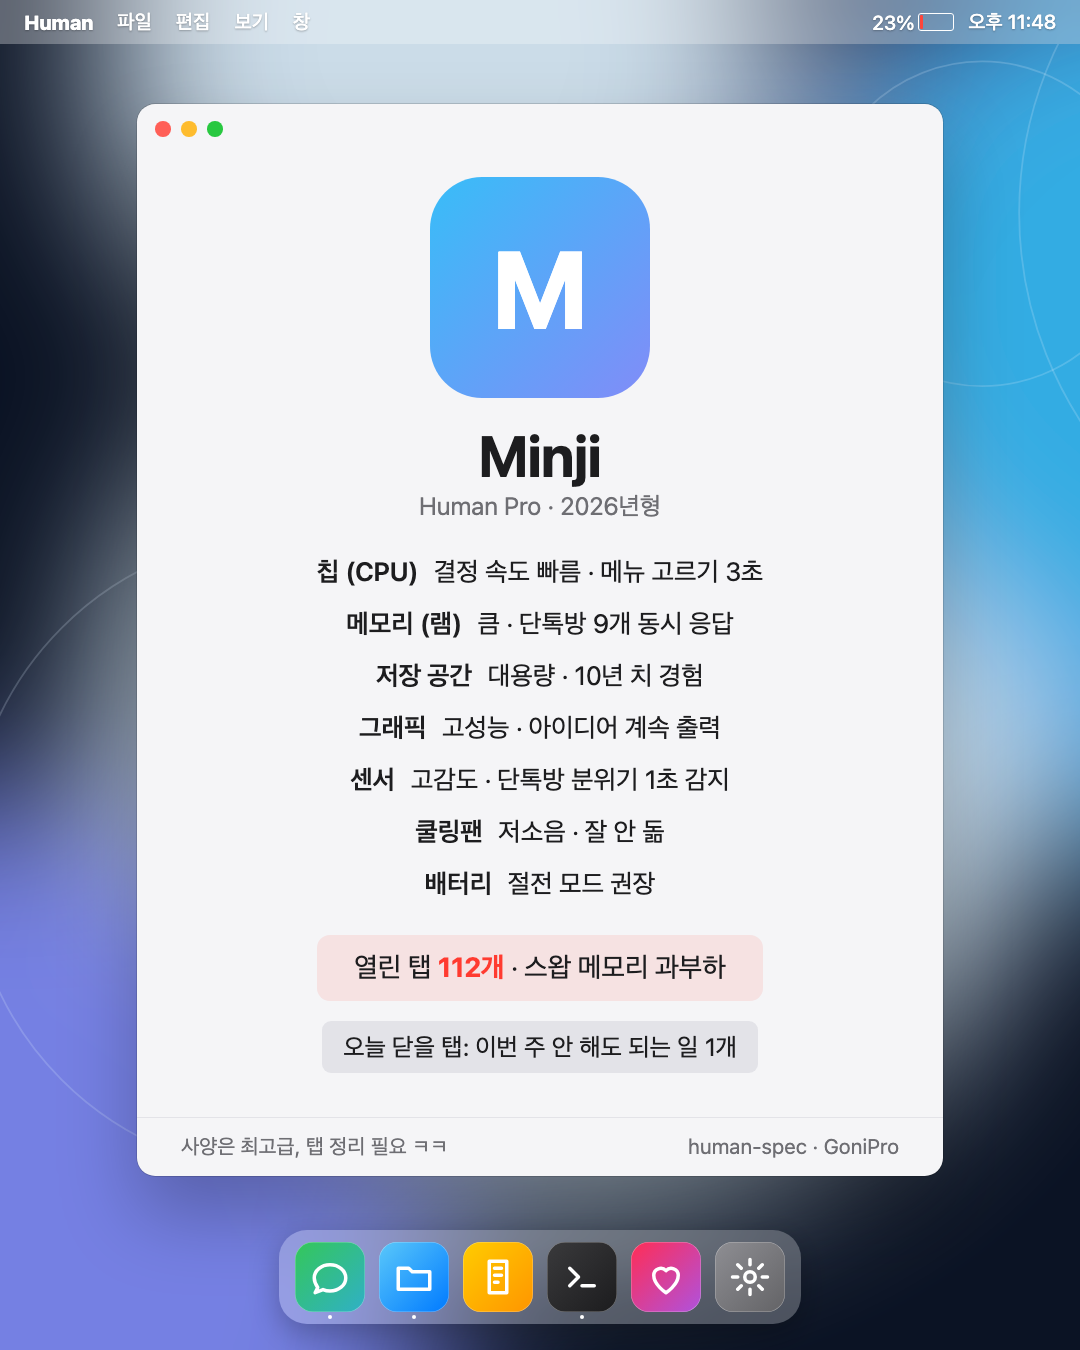
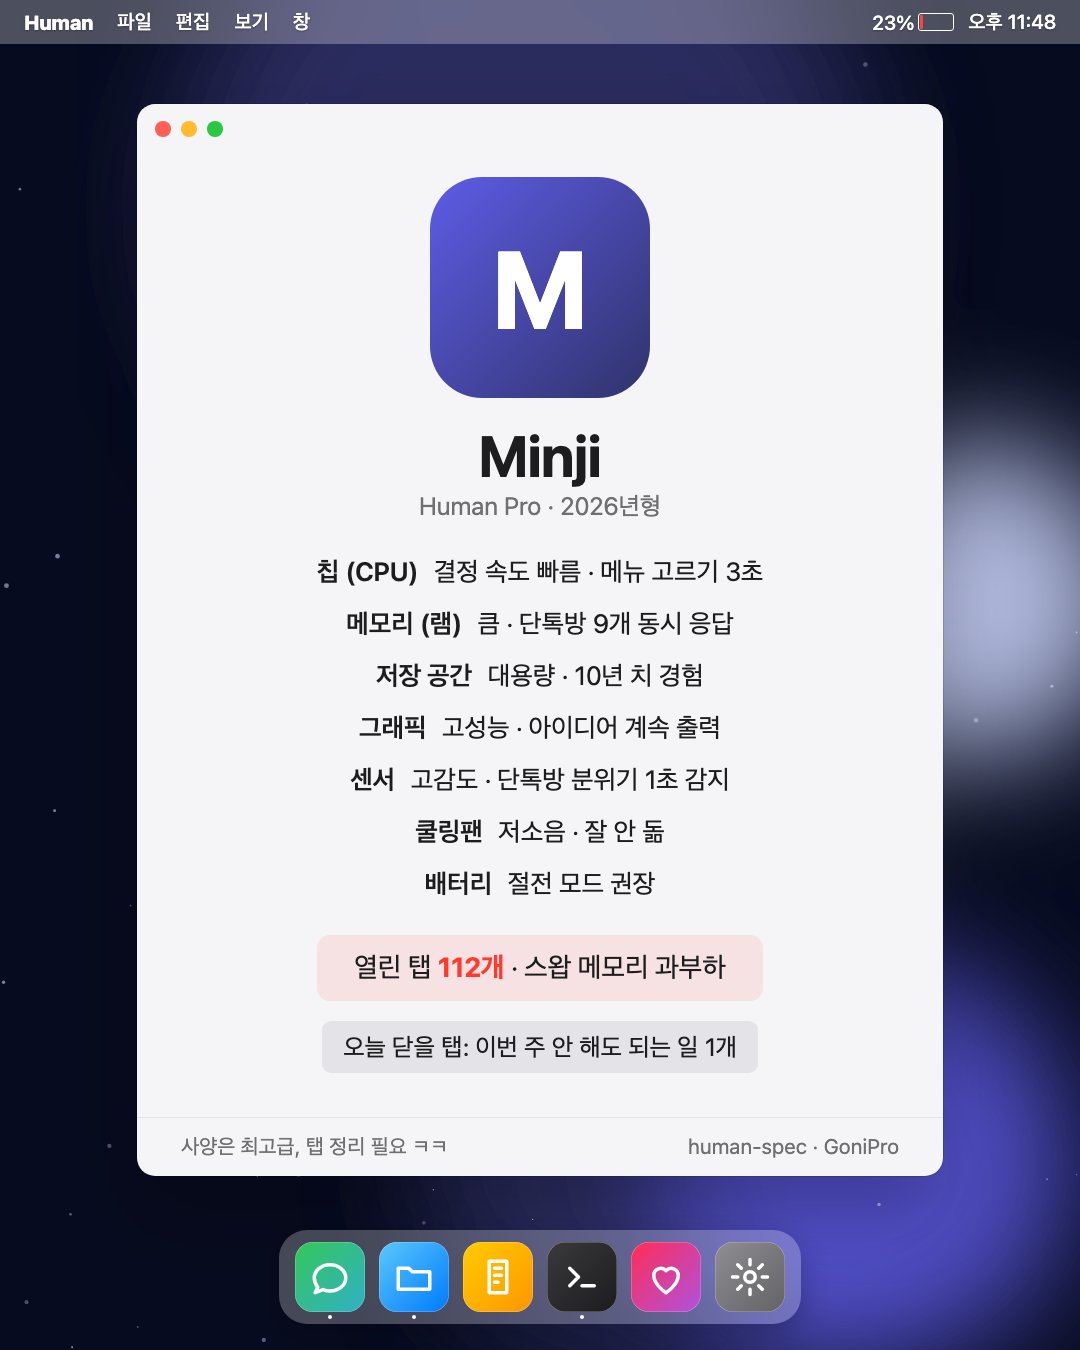
배경 = 그 사람 지금 상태: 과부하·배터리 부족·집중·아이디어 폭발·여유 5종
Claude-Session: https://claude.ai/code/session_01Sd2CQH6QC6bznUp7g1dXaV

diff --git a/template/card.html b/template/card.html
@@ -73,21 +73,30 @@ const D = window.SPEC || {
   tabs: "열린 탭 <b>280개</b> · 스왑 메모리 과부하",
   tip: "오늘 닫을 탭: 이번 주 안 해도 되는 일 1개",
   sum: "사양은 최고급, 탭 정리 필요 ㅋㅋ",
-  battery: "5%", clock: "오전 2:14"
+  battery: "5%", clock: "오전 2:14",
+  state: "overload"   /* overload 과부하 · lowbattery 배터리 부족 · focus 집중 · creative 아이디어 폭발 · calm 여유 */
 };
-{const q=new URLSearchParams(location.search);if(q.get("n")){D.name=q.get("n");D.initial=q.get("n")[0].toUpperCase()}if(q.get("tall")||D.tall)document.body.classList.add("tall")}
-/* 사람마다 다른 배경: 이름으로 색·모양이 정해져요(같은 이름이면 늘 같은 배경) */
+{const q=new URLSearchParams(location.search);if(q.get("n")){D.name=q.get("n");D.initial=q.get("n")[0].toUpperCase()}if(q.get("s"))D.state=q.get("s");if(q.get("tall")||D.tall)document.body.classList.add("tall")}
+/* 배경 = 그 사람 지금 상태(state) + 이름으로 정해지는 모양. 같은 상태라도 사람마다 조금씩 달라요 */
 (function(){
-  const PAL=[["#0f172a","#6366f1","#ec4899","#f59e0b"],["#052e2b","#10b981","#22d3ee","#a3e635"],["#1e1b4b","#a855f7","#f472b6","#fde68a"],["#1a0f0a","#f97316","#ef4444","#fbbf24"],["#0b1324","#38bdf8","#818cf8","#e0f2fe"],["#1f2937","#f43f5e","#fb7185","#fda4af"],["#14120c","#eab308","#84cc16","#fef08a"],["#0c0a1e","#7c3aed","#06b6d4","#f0abfc"],["#101820","#ff8a3d","#ffd23f","#3dd6d0"],["#1b1b1f","#94a3b8","#e2e8f0","#60a5fa"]];
+  const ST={
+    overload:{p:["#1a0806","#ff453a","#ff9f0a","#ffd60a"],m:"tabs",label:"과부하"},
+    lowbattery:{p:["#070b1f","#5e5ce6","#30336b","#cfd8ff"],m:"night",label:"배터리 부족"},
+    focus:{p:["#03161c","#0a84ff","#30d5c8","#9be7ff"],m:"rings",label:"집중"},
+    creative:{p:["#12061f","#bf5af2","#ff375f","#ffd60a"],m:"sparks",label:"아이디어 폭발"},
+    calm:{p:["#0d1a12","#34c759","#a8e063","#f1f8e9"],m:"waves",label:"여유"}
+  };
   let h=2166136261; for(const c of (D.seed||D.name||"?")) h=Math.imul(h^c.codePointAt(0),16777619)>>>0;
   const rnd=()=>{h^=h<<13;h>>>=0;h^=h>>17;h^=h<<5;h>>>=0;return h/4294967296};
-  const p=D.palette||PAL[h%PAL.length]; const W=1440,H=1120;
-  const style=Math.floor(rnd()*3);
-  let g=`<defs><filter id="b"><feGaussianBlur stdDeviation="70"/></filter><linearGradient id="lg" x1="0" y1="0" x2="1" y2="1"><stop offset="0" stop-color="${p[1]}"/><stop offset="1" stop-color="${p[2]}"/></linearGradient></defs><rect width="${W}" height="${H}" fill="${p[0]}"/>`;
-  g+=`<g filter="url(#b)" opacity=".9">`; for(let i=0;i<6;i++){g+=`<circle cx="${rnd()*W}" cy="${rnd()*H}" r="${180+rnd()*260}" fill="${p[1+i%3]}"/>`} g+=`</g>`;
-  if(style===0){for(let i=0;i<7;i++){const y=H*(.15+i*.11)+rnd()*40;g+=`<path d="M0 ${y} C ${W*.3} ${y-120*rnd()}, ${W*.6} ${y+140*rnd()}, ${W} ${y-60}" fill="none" stroke="${p[3]}" stroke-opacity=".18" stroke-width="2"/>`}}
-  if(style===1){for(let i=0;i<40;i++){g+=`<circle cx="${rnd()*W}" cy="${rnd()*H}" r="${1+rnd()*3}" fill="${p[3]}" opacity="${.3+rnd()*.5}"/>`}}
-  if(style===2){for(let i=0;i<5;i++){const x=rnd()*W,y=rnd()*H,r=120+rnd()*220;g+=`<circle cx="${x}" cy="${y}" r="${r}" fill="none" stroke="${p[3]}" stroke-opacity=".2" stroke-width="1.5"/>`}}
+  const keys=Object.keys(ST); const st=ST[D.state]||ST[keys[h%keys.length]]; const p=D.palette||st.p; const W=1440,H=1800;
+  let g=`<defs><filter id="b"><feGaussianBlur stdDeviation="80"/></filter></defs><rect width="${W}" height="${H}" fill="${p[0]}"/><g filter="url(#b)" opacity=".85">`;
+  for(let i=0;i<6;i++) g+=`<circle cx="${rnd()*W}" cy="${rnd()*H}" r="${200+rnd()*280}" fill="${p[1+i%3]}"/>`; g+=`</g>`;
+  if(st.m==="tabs"){ for(let i=0;i<26;i++){const w=120+rnd()*160,x=rnd()*W,y=rnd()*H,r=(rnd()-.5)*24;g+=`<g transform="rotate(${r} ${x} ${y})" opacity="${.18+rnd()*.25}"><rect x="${x}" y="${y}" width="${w}" height="${w*.68}" rx="10" fill="none" stroke="${p[3]}" stroke-width="2"/><rect x="${x}" y="${y}" width="${w}" height="16" rx="8" fill="${p[3]}" opacity=".5"/></g>`}
+    for(let i=0;i<5;i++){const y=H*(.2+i*.15);g+=`<path d="M0 ${y} q 60 -30 120 0 t 120 0 t 120 0 t 120 0 t 120 0 t 120 0 t 120 0 t 120 0 t 120 0 t 120 0 t 120 0 t 120 0" fill="none" stroke="${p[2]}" stroke-opacity=".22" stroke-width="3"/>`} }
+  if(st.m==="night"){ g+=`<circle cx="${W*.78}" cy="${H*.16}" r="70" fill="${p[3]}" opacity=".9"/><circle cx="${W*.78+28}" cy="${H*.16-18}" r="62" fill="${p[0]}"/>`; for(let i=0;i<90;i++) g+=`<circle cx="${rnd()*W}" cy="${rnd()*H}" r="${.8+rnd()*2.4}" fill="${p[3]}" opacity="${.3+rnd()*.6}"/>`; }
+  if(st.m==="rings"){ const cx=W*(.3+rnd()*.4),cy=H*(.3+rnd()*.4); for(let i=1;i<12;i++) g+=`<circle cx="${cx}" cy="${cy}" r="${i*90}" fill="none" stroke="${p[3]}" stroke-opacity="${.28-i*.02}" stroke-width="2"/>`; }
+  if(st.m==="sparks"){ for(let i=0;i<34;i++){const x=rnd()*W,y=rnd()*H,r=8+rnd()*26,c=p[1+Math.floor(rnd()*3)];g+=`<path d="M${x} ${y-r} Q${x} ${y} ${x+r} ${y} Q${x} ${y} ${x} ${y+r} Q${x} ${y} ${x-r} ${y} Q${x} ${y} ${x} ${y-r}Z" fill="${c}" opacity="${.5+rnd()*.5}"/>`} }
+  if(st.m==="waves"){ for(let i=0;i<9;i++){const y=H*(.1+i*.1)+rnd()*30;g+=`<path d="M0 ${y} C ${W*.3} ${y-90}, ${W*.6} ${y+90}, ${W} ${y-30}" fill="none" stroke="${p[3]}" stroke-opacity=".2" stroke-width="2.5"/>`} }
   const bg=document.getElementById("bg"); bg.setAttribute("viewBox",`0 0 ${W} ${H}`); bg.innerHTML=g;
   document.getElementById("pic").style.background=`linear-gradient(135deg,${p[1]},${p[2]})`;
 })();
